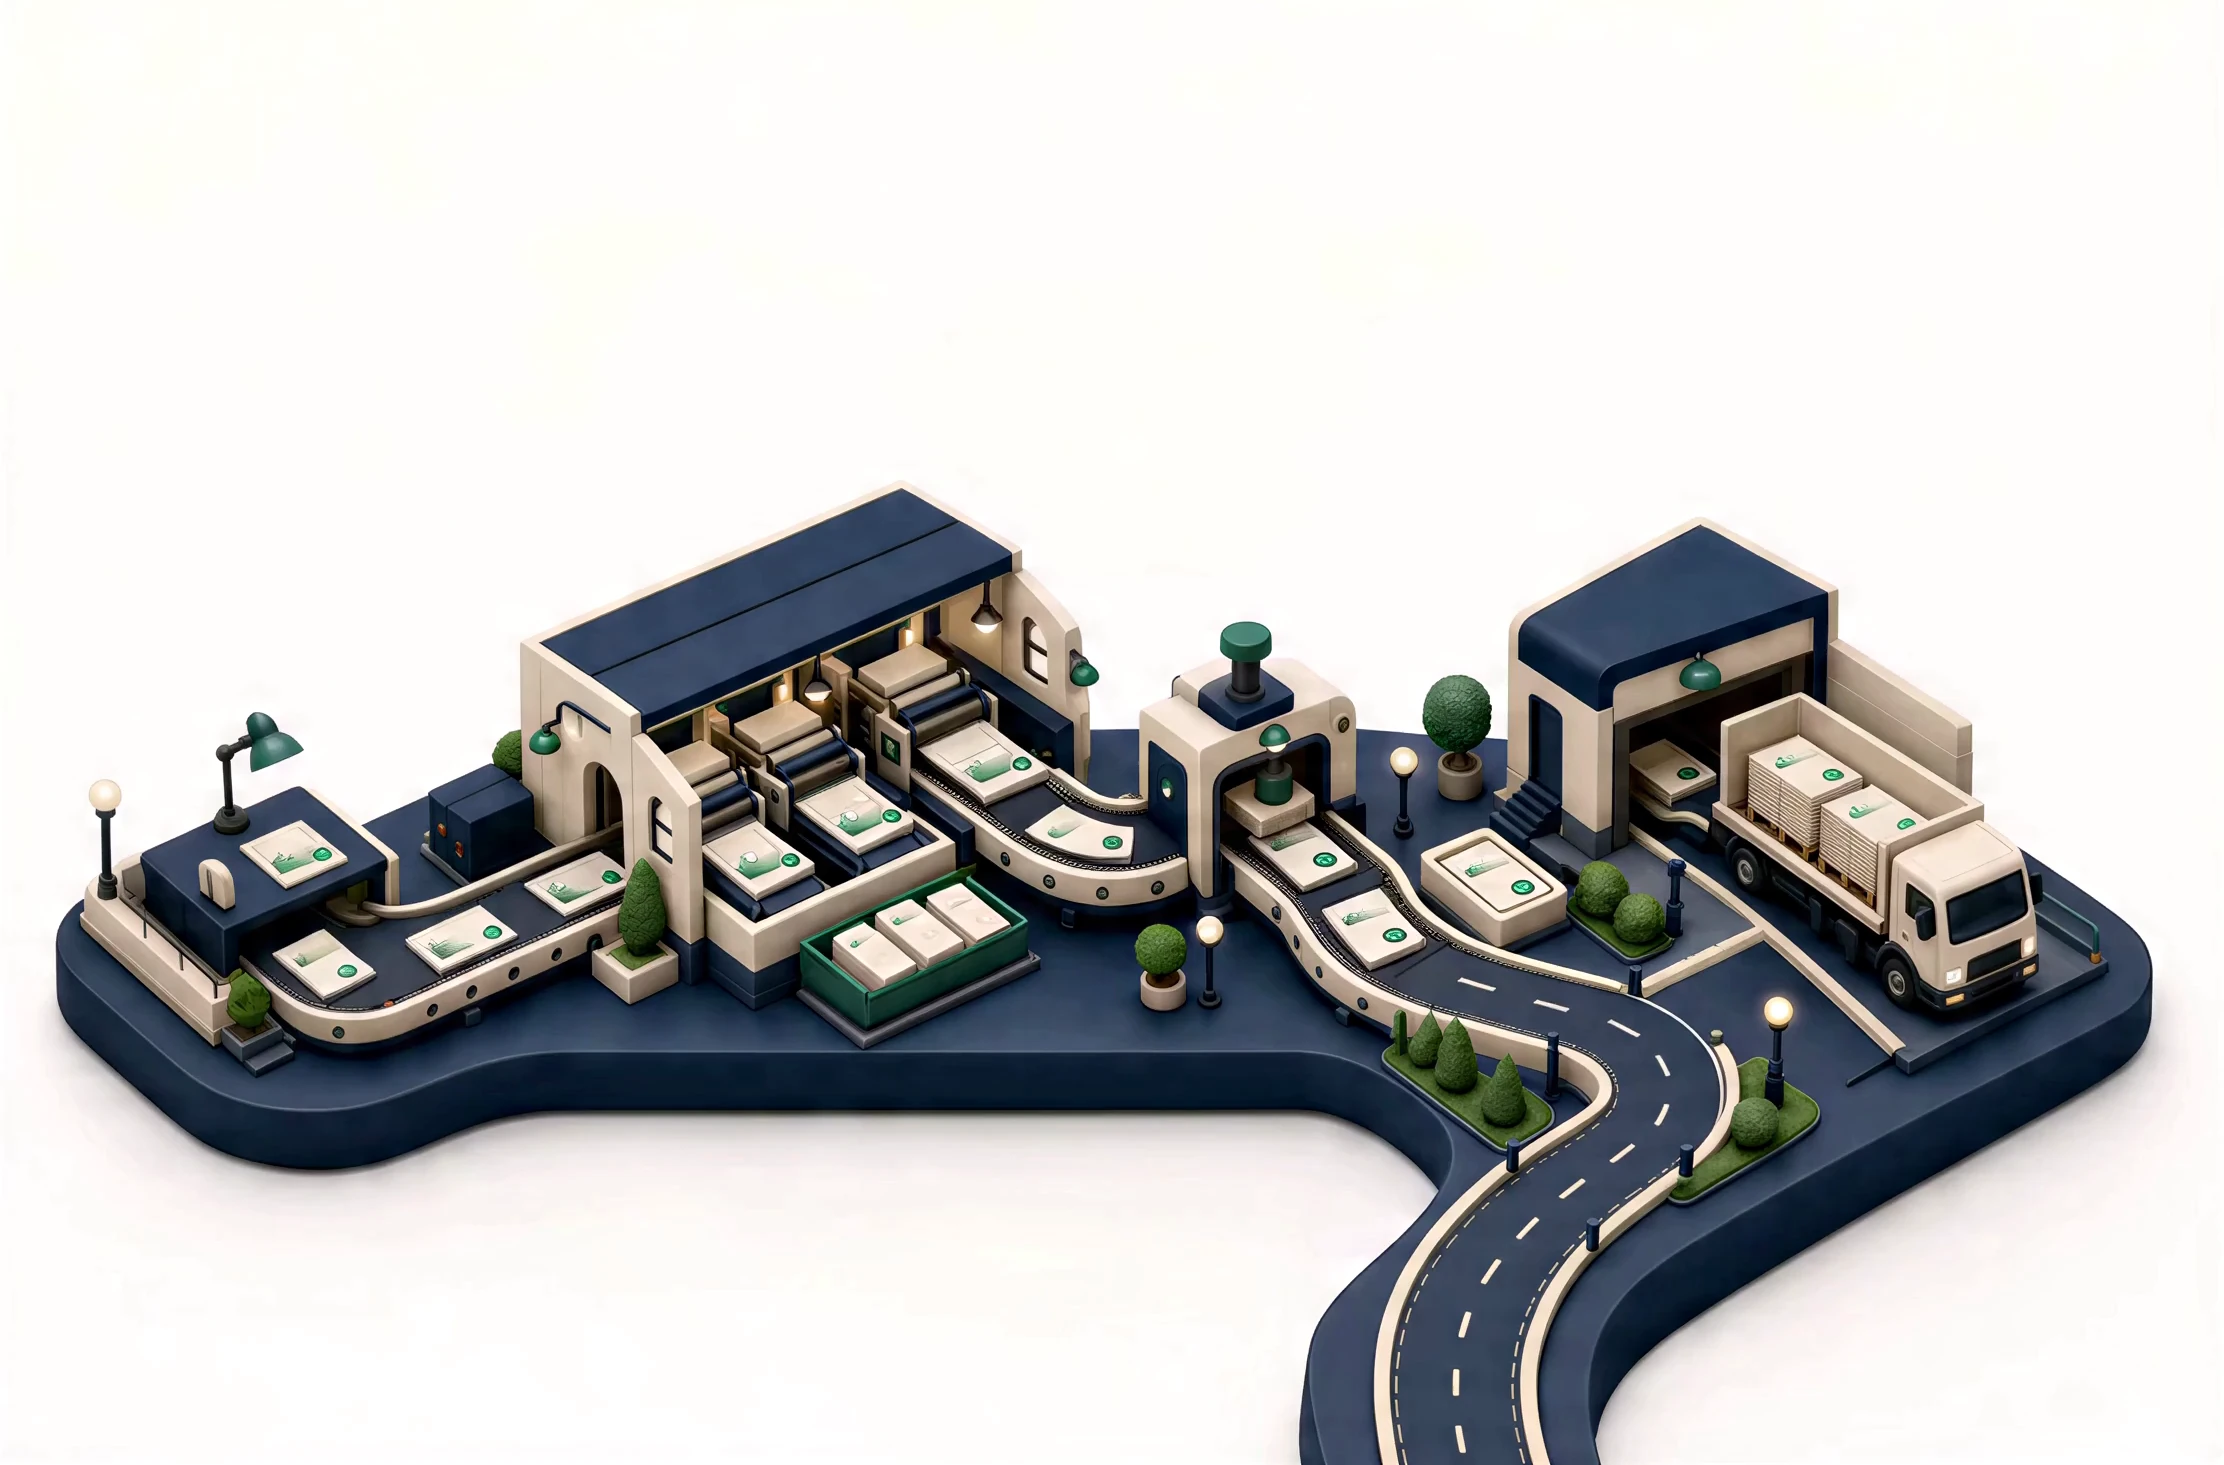
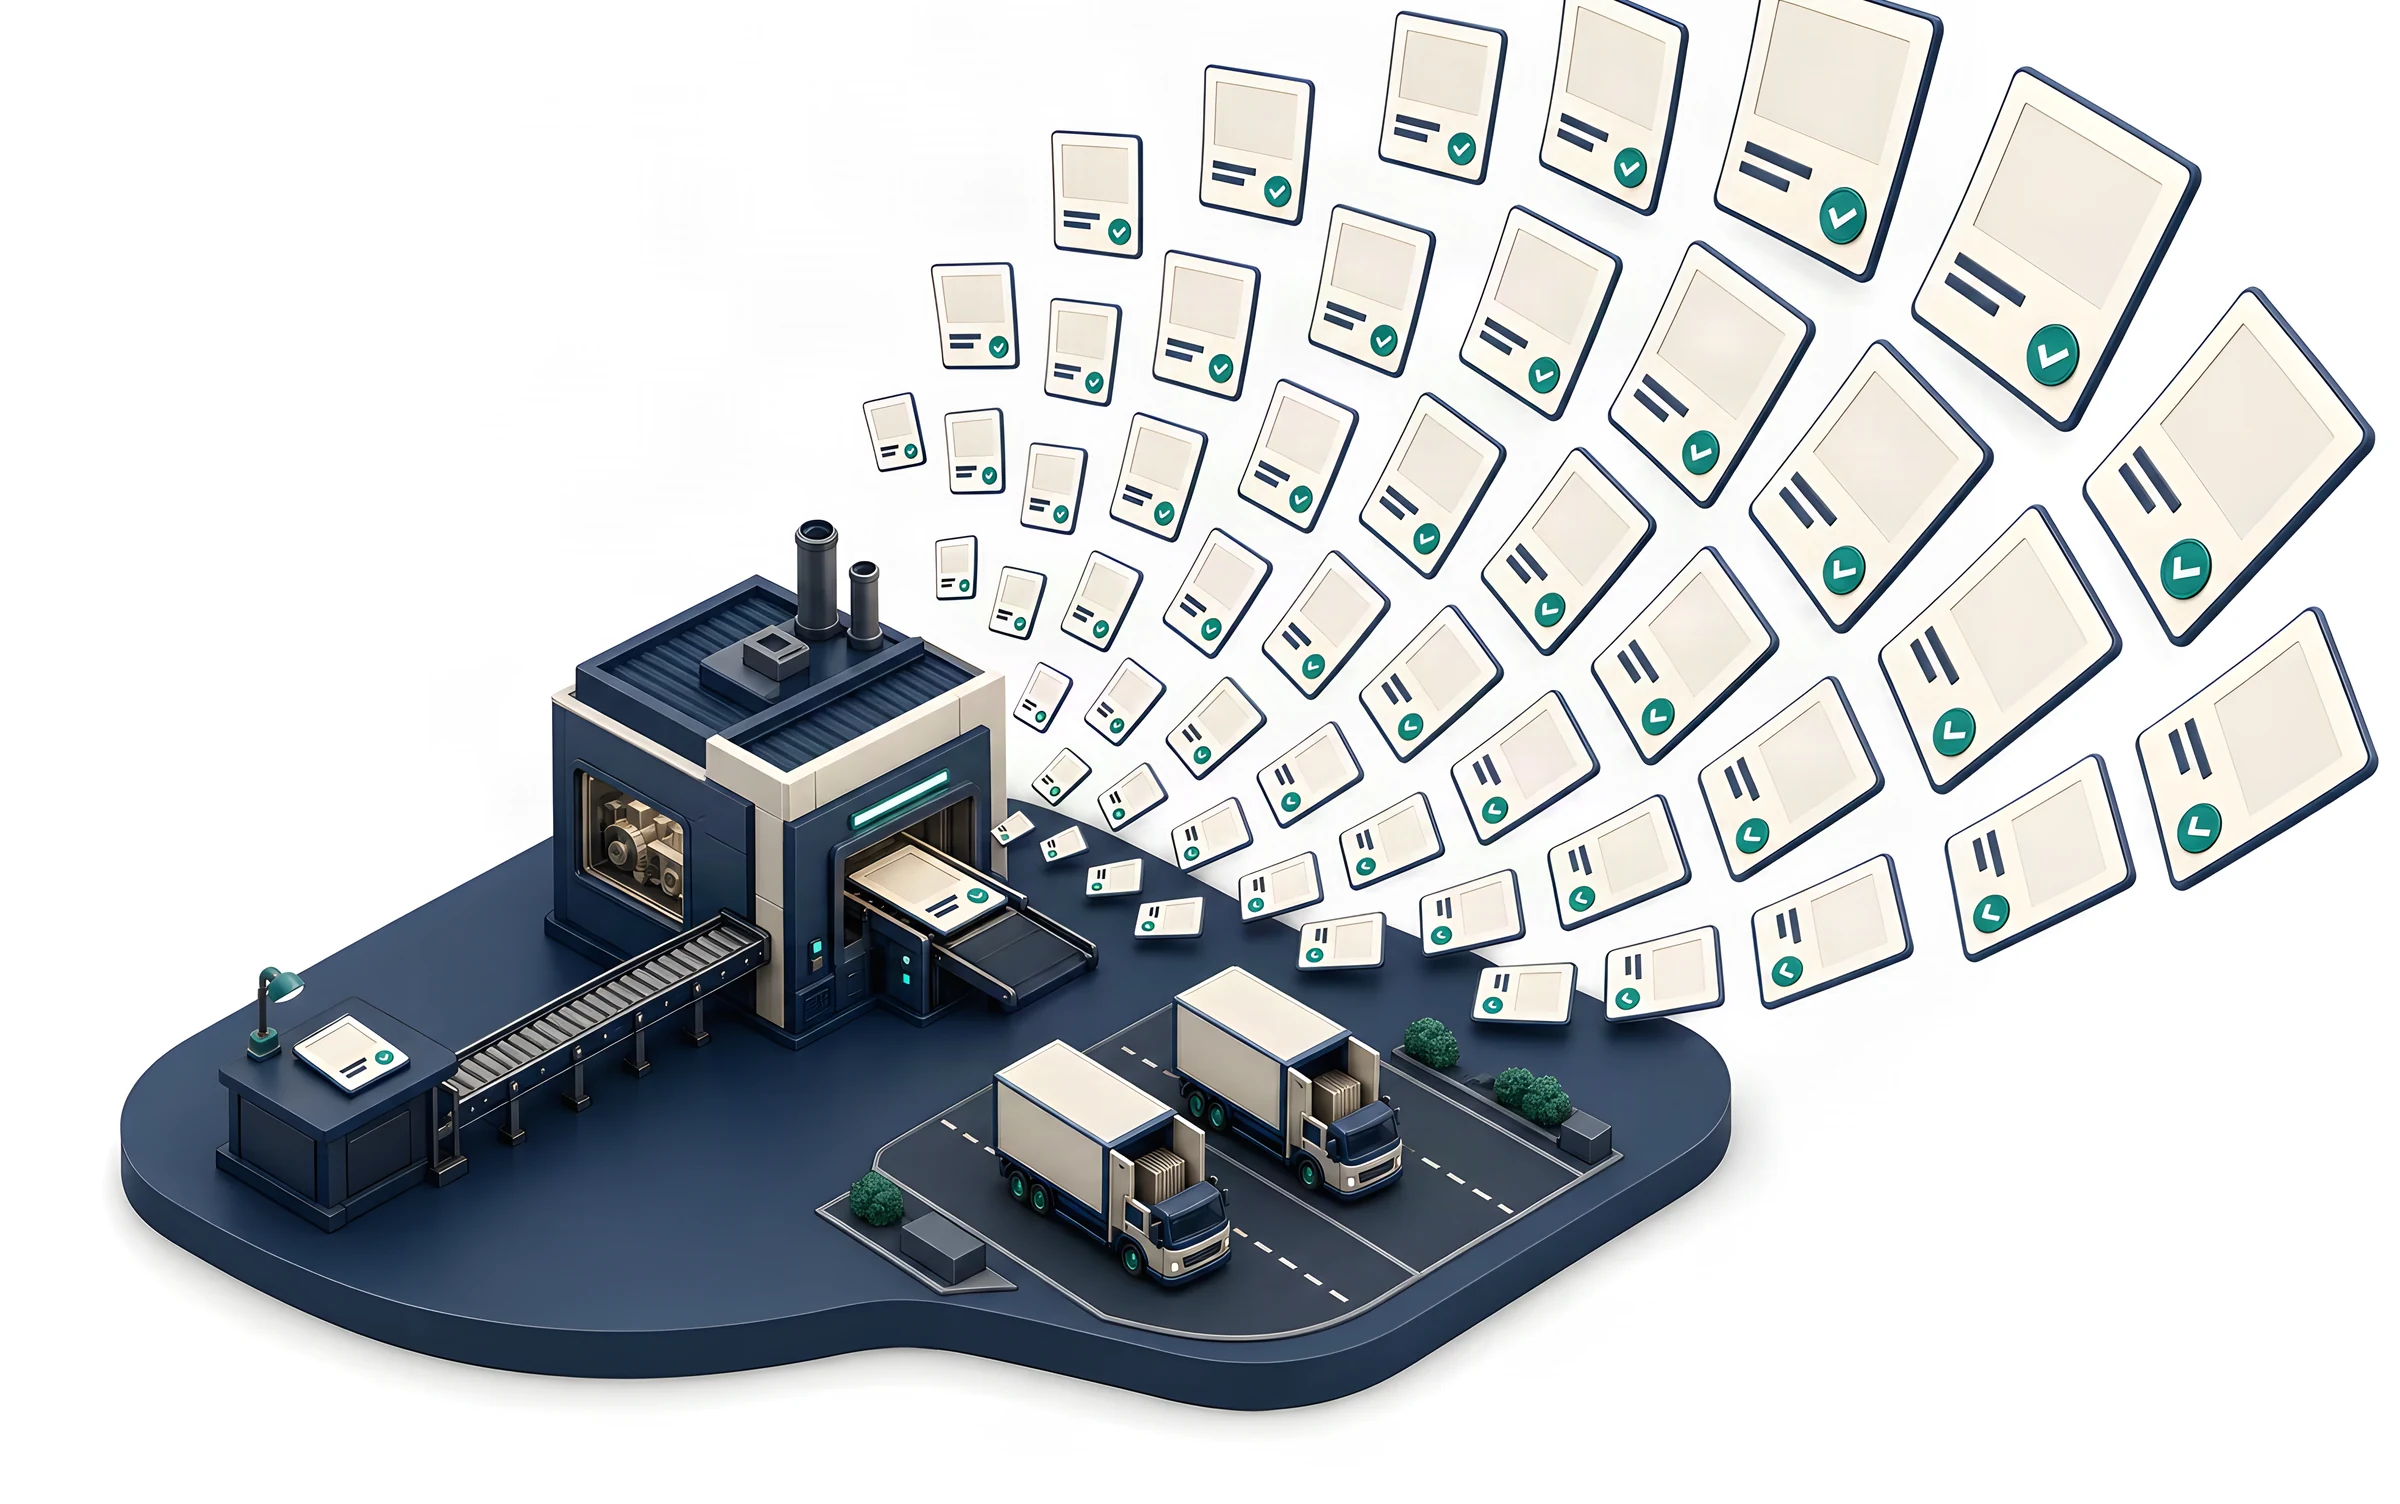
A finale that sells the pitch, at nine times the pixels
Three faults in one pass. The world was a factory — machinery, when the
pitch is the outcome — so it is remade as the thing we actually promise:
one brief on a desk, one conveyor into the hall, and a great arc of dozens
of finished creatives fanning out in the three real formats, each sealed,
trucks waiting below to carry them off.

Resolution was poor for a reason worth writing down: every frame downstream
was an upscale of a 1536px render, which is gpt-image-2's ceiling at 4:3, so
the video model was inventing detail that never existed. The fix is upstream
— the still now goes through our own finalize template (ESRGAN to 4096px, on
platform storage), and the poster ships at 2400px against the ~1850px it
displays at.

And the footer would not centre on phones: the mobile rule set literal 16px
side margins while the base rule already narrowed the card, pinning it left
with the remainder on the right. Auto margins now; measured dead-centre at
390, 430, 768, 1010 and 1440.

Claude-Session: https://claude.ai/code/session_01RHbMgFrd4oMPPzvhxNmHzD

diff --git a/src/components/HomeV3/HomeV3.css b/src/components/HomeV3/HomeV3.css
@@ -384,5 +384,8 @@ body:has(.hv3) footer.footer {
     0 40px 90px -30px rgba(10, 37, 64, 0.35);
 }
 @media (max-width: 900px) {
-  body:has(.hv3) footer.footer { margin: -60px 16px 24px; }
+  /* auto, not a fixed inset: the base rule already narrows the card, so a
+     literal 16px left margin pinned it left and left the remainder on the
+     right — the off-centre card on phones. */
+  body:has(.hv3) footer.footer { width: calc(100% - 32px); margin: -60px auto 24px; }
 }

diff --git a/src/components/HomeV3/HomeV3Page.tsx b/src/components/HomeV3/HomeV3Page.tsx
@@ -306,8 +306,8 @@ export default function HomeV3Page() {
           <SceneMedia
             name="world"
             alt="The whole campus quietly running: cards gliding the conveyor path between the stations, the seal pressing, the dock loaded"
-            width={1536}
-            height={799}
+            width={2400}
+            height={1319}
           />
         </figure>
       </section>
